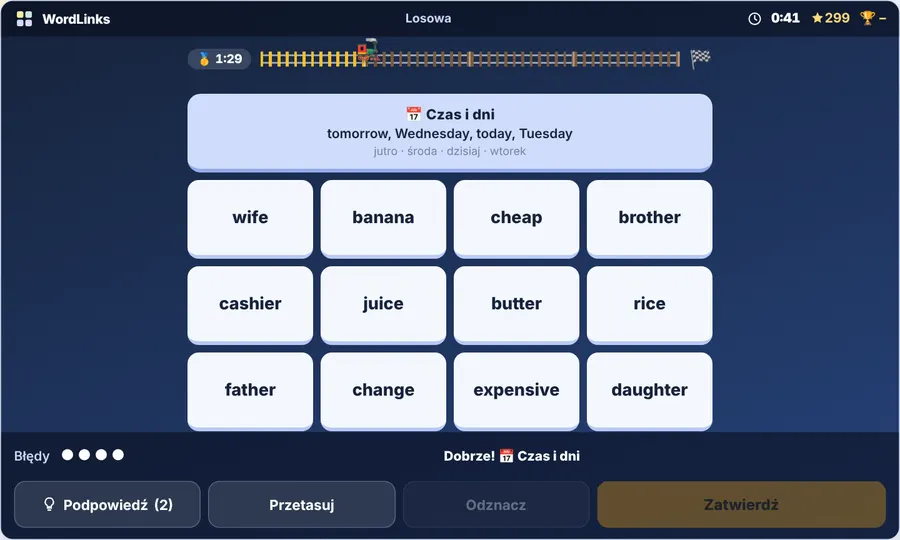
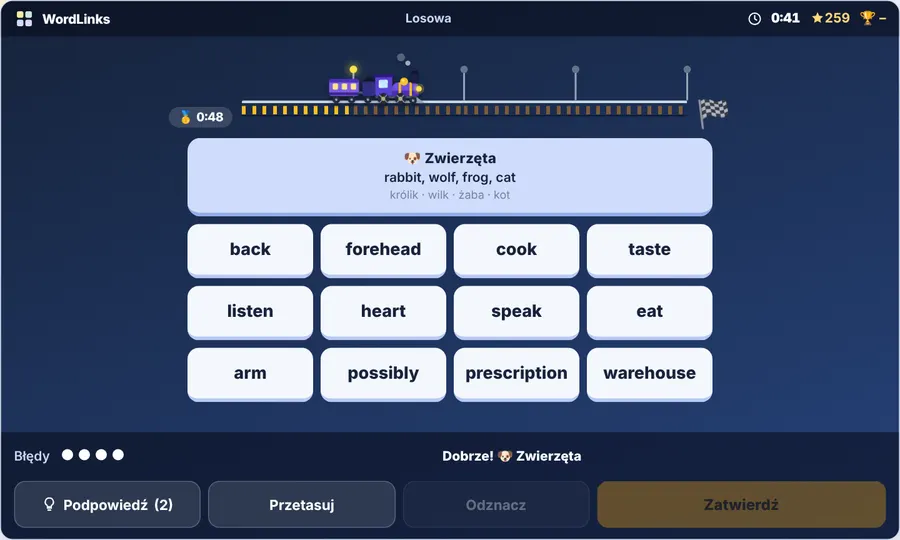
WordLinks: większy pociąg z wagonem, dymem, kołami i stacjami z lampami
Claude-Session: https://claude.ai/code/session_01MyUW9fQB8JttoV36Ji4mpt

Changed region(s): [[0.1867, 0.0593, 0.8089, 0.5926], [0.1867, 0.6222, 0.8089, 0.8], [0.4978, 0.8296, 0.6533, 0.8593]]

diff --git a/index.html b/index.html
@@ -786,6 +786,29 @@ html[data-season=winter] .hero::after{inset:0;width:auto;height:auto;border-radi
 .tw-man.go{animation:twright .8s var(--ease-out)}
 .tw-tr{display:inline-block;transform:scaleX(-1)}
 @keyframes twright{from{left:calc(var(--from)/var(--n)*100%)}}
+/* WordLinks: większy, szczegółowy pociąg na torach */
+.cn-tower{height:80px;max-width:600px;align-items:flex-end;padding-bottom:4px;box-sizing:border-box}.tw-top,.tw-roof{margin-bottom:-7px}.tw-fl{margin-bottom:6px}
+.tw-roof{font-size:30px}.tw-fl{height:16px;overflow:visible;background:none;border-top:3px solid #cbd5e1;border-radius:2px;box-shadow:0 1px 0 #0b1426}
+.tw-fl i,.tw-fl i:first-child{position:relative;border:0;background:repeating-linear-gradient(90deg,#7c5a3a 0 4px,transparent 4px 11px) 0 3px/100% 9px no-repeat}
+.tw-fl i.on{background:repeating-linear-gradient(90deg,#fbbf24 0 4px,transparent 4px 11px) 0 3px/100% 9px no-repeat}
+.tw-fl i::after{content:"";position:absolute;right:-1px;top:-34px;width:2px;height:31px;background:#94a3b8}
+.tw-fl i::before{content:"";position:absolute;right:-4px;top:-40px;width:8px;height:8px;border-radius:50%;background:#64748b;z-index:1}
+.tw-fl i.on::before{background:#fde047;box-shadow:0 0 9px #fde047}
+.tw-man,.tw-man.go{--p:calc(var(--up)/var(--n)*100%);position:absolute;bottom:auto;top:-50px;left:var(--p);margin:0;width:auto;transform:translateX(calc(var(--up)/var(--n)*-100%));font-size:0;filter:drop-shadow(0 3px 3px rgba(0,0,0,.45))}
+.tw-man.go{animation:twtr .9s var(--ease-out)}
+@keyframes twtr{from{left:calc(var(--from)/var(--n)*100%);transform:translateX(calc(var(--from)/var(--n)*-100%))}}
+.cn-tower.slip .tw-man{animation:twsh .4s}
+@keyframes twsh{25%{transform:translateX(calc(var(--up)/var(--n)*-100% - 4px)) rotate(-1.5deg)}75%{transform:translateX(calc(var(--up)/var(--n)*-100% + 4px)) rotate(1.5deg)}}
+.tw-svg{display:block;width:108px;height:54px;overflow:visible}
+.tw-wh{transform-box:fill-box;transform-origin:center;animation:twwh .7s linear infinite}
+@keyframes twwh{to{transform:rotate(360deg)}}
+.tw-smk circle{transform-box:fill-box;transform-origin:center;fill:#fff;opacity:0;animation:twsmk 1.6s ease-out infinite}
+.tw-smk circle:nth-child(2){animation-delay:.5s}.tw-smk circle:nth-child(3){animation-delay:1s}
+@keyframes twsmk{0%{opacity:.85;transform:translate(0,0) scale(.5)}100%{opacity:0;transform:translate(-14px,-16px) scale(1.7)}}
+.tw-hr{position:absolute;right:-6px;top:-8px;font-size:22px;font-style:normal;animation:floaty 1.2s ease-in-out infinite}
+@media(min-width:701px){.cn-t{min-height:58px}}
+@media(prefers-reduced-motion:reduce){.tw-wh,.tw-smk circle,.tw-man.go{animation:none}}
+@media(max-width:700px){.cn-tower{height:76px}.tw-svg{width:84px;height:42px}.tw-man,.tw-man.go{top:-39px}.tw-fl i::after{top:-30px;height:27px}.tw-fl i::before{top:-36px}}
 </style>
 </head>
 <body>
@@ -2534,12 +2557,27 @@ async function cnChal(withTime){
 setInterval(()=>{if(view==='conn'&&CN&&!CN.over&&CN.t0){const e=document.getElementById('cn-time');if(e)e.textContent=cnFmt(cnTotal());const q=document.getElementById('cn-pts');if(q)q.textContent=cnPtsOf(cnTotal(),CN.mode==='sprint');const p=document.getElementById('cn-pace');if(p)p.textContent=cnPaceTxt()}},250);
 function cnPaceTxt(){const t=cnTotal(),m=cnMeds(CN.mode==='sprint').find(x=>t<x[0]);return m?m[1]+' '+cnFmt(m[0]-t):ic('flag')}
 /* pociąg: każda odgadnięta grupa to kolejna stacja (sprint: 12 stacji) */
+const cnTrain=()=>'<svg class="tw-svg" viewBox="0 -16 112 56" aria-hidden="true">'
+  +'<g class="tw-smk"><circle cx="90" cy="-4" r="3.4"/><circle cx="92" cy="-4" r="3.4"/><circle cx="94" cy="-4" r="3.4"/></g>'
+  +'<g class="tw-car"><rect x="1" y="9" width="33" height="19" rx="3" fill="#7c5ce6"/><rect x="1" y="9" width="33" height="4" rx="2" fill="#4c2fb8"/><rect x="1" y="24" width="33" height="3" fill="#3b2490"/>'
+  +[5,15,25].map(x=>'<rect x="'+x+'" y="14" width="6" height="7" rx="1.6" fill="#fde68a"/>').join('')
+  +'<rect x="34" y="23" width="5" height="2.4" fill="#475569"/><g class="tw-wh"><circle cx="9" cy="32" r="4.2" fill="#1e293b"/><circle cx="9" cy="32" r="1.4" fill="#94a3b8"/></g><g class="tw-wh"><circle cx="26" cy="32" r="4.2" fill="#1e293b"/><circle cx="26" cy="32" r="1.4" fill="#94a3b8"/></g></g>'
+  +'<g transform="translate(38 0)"><rect x="0" y="12" width="14" height="16" rx="2" fill="#312e81"/><path d="M1 12Q4 6 7 8Q11 5 13 12z" fill="#0f172a"/>'
+  +'<rect x="14" y="6" width="19" height="22" rx="2.4" fill="#5b3fd1"/><rect x="12" y="3.6" width="23" height="3.6" rx="1.8" fill="#2e1a7a"/><rect x="18" y="10" width="10" height="9" rx="1.8" fill="#bae6fd"/><path d="M18 10L23 19L18 19zM24 10L28 10L28 14z" fill="#fff" opacity=".45"/>'
+  +'<rect x="33" y="13" width="29" height="15" rx="6" fill="#6d4fe0"/><rect x="33" y="22" width="29" height="6" fill="#4c2fb8"/><rect x="40" y="13" width="2.6" height="15" fill="#fbbf24"/><rect x="52" y="13" width="2.6" height="15" fill="#fbbf24"/>'
+  +'<circle cx="46" cy="12" r="4.4" fill="#fbbf24"/><circle cx="45" cy="10.8" r="1.4" fill="#fde68a"/><rect x="54" y="4" width="6.6" height="10" rx="1" fill="#1e1b4b"/><path d="M52.6 3.4h9.4l-1.6 -3.4h-6.2z" fill="#0f172a"/>'
+  +'<circle cx="62.4" cy="20" r="3.2" fill="#fde047"/><circle cx="62.4" cy="20" r="6" fill="#fde047" opacity=".25"/><path d="M60 29L69 36H58z" fill="#94a3b8"/>'
+  +'<rect x="14" y="28" width="46" height="2.4" rx="1" fill="#475569"/>'
+  +'<g class="tw-wh"><circle cx="23" cy="31" r="6.4" fill="#1e293b"/><circle cx="23" cy="31" r="2.2" fill="#fbbf24"/><path d="M23 25V37M17 31H29" stroke="#94a3b8" stroke-width="1"/></g>'
+  +'<g class="tw-wh"><circle cx="42" cy="31" r="6.4" fill="#1e293b"/><circle cx="42" cy="31" r="2.2" fill="#fbbf24"/><path d="M42 25V37M36 31H48" stroke="#94a3b8" stroke-width="1"/></g>'
+  +'<g class="tw-wh"><circle cx="56" cy="33" r="4.2" fill="#1e293b"/><circle cx="56" cy="33" r="1.4" fill="#94a3b8"/></g>'
+  +'<g class="tw-wh"><circle cx="6" cy="32" r="4.2" fill="#1e293b"/><circle cx="6" cy="32" r="1.4" fill="#94a3b8"/></g></g></svg>';
 function cnTower(wait){
   const sp=CN.mode==='sprint',N=sp?12:4,base=sp?(SPN.n-1)*4:0,up=wait?0:CN.over&&CN.won?N:base+CN.up,prev=CN.ush==null?up:CN.ush;
   CN.ush=up;
   return '<div class="cn-tower'+(CN.shake?' slip':'')+(up===N?' top':'')+'" role="img" aria-label="Stacja '+up+' z '+N+'" style="--n:'+N+';--up:'+up+';--from:'+prev+'">'
    +'<div class="tw-top"><span id="cn-pace">'+(CN.over?(CN.won?cnMedal(CN.ms,sp)||'🏁':'—'):cnPaceTxt())+'</span></div><div class="tw-roof">🏁</div>'
-   +'<div class="tw-fl">'+Array.from({length:N},(_,k)=>'<i class="'+(N-k<=up?'on':'')+'"></i>').join('')+'<b class="tw-man'+(prev!==up?' go':'')+'">'+(up===N?'🎉':'<span class="tw-tr">🚂</span>')+'</b></div></div>';
+   +'<div class="tw-fl">'+Array.from({length:N},(_,k)=>'<i class="'+(N-k<=up?'on':'')+'"></i>').join('')+'<b class="tw-man'+(prev!==up?' go':'')+'">'+cnTrain()+(up===N?'<i class="tw-hr">🎉</i>':'')+'</b></div></div>';
 }
 function renderConn(){
   const root=$('v-conn');if(!root)return;
